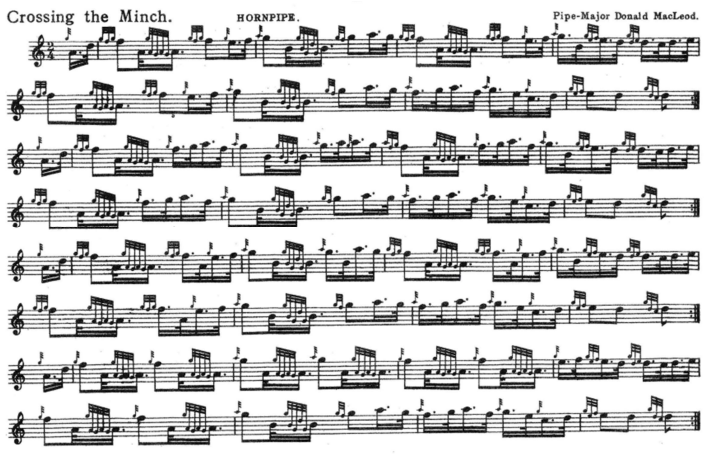
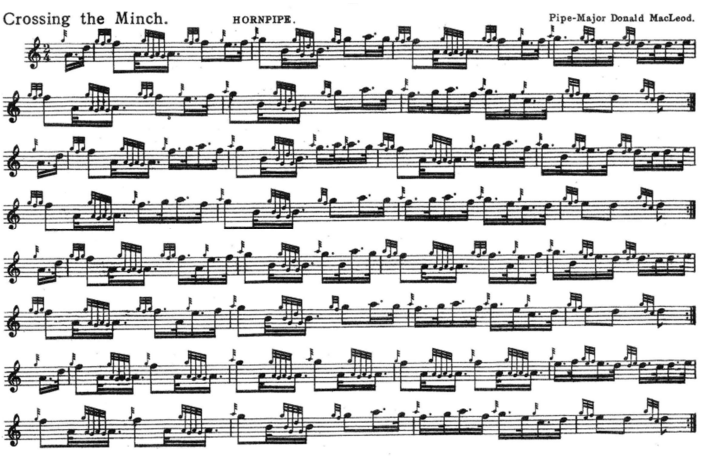
Add files via upload

diff --git a/crossingminch.html b/crossingminch.html
@@ -22,10 +22,10 @@ w\:* {behavior:url(#default#VML);}
  <o:DocumentProperties>
   <o:Author>Graeme Bolton</o:Author>
   <o:LastAuthor>Graeme Bolton</o:LastAuthor>
-  <o:Revision>2</o:Revision>
-  <o:TotalTime>234</o:TotalTime>
-  <o:Created>2023-12-16T03:00:00Z</o:Created>
-  <o:LastSaved>2023-12-16T03:00:00Z</o:LastSaved>
+  <o:Revision>25</o:Revision>
+  <o:TotalTime>248</o:TotalTime>
+  <o:Created>2023-12-16T03:56:00Z</o:Created>
+  <o:LastSaved>2023-12-21T03:55:00Z</o:LastSaved>
   <o:Pages>1</o:Pages>
   <o:Words>54</o:Words>
   <o:Characters>310</o:Characters>
@@ -1028,7 +1028,7 @@ word-wrap:break-word'>
 </table>
 
 <p class=MsoNormal style='margin-bottom:0cm;line-height:normal'><!--[if gte vml 1]><v:rect
- id="Rectangle_x0020_1626538258" o:spid="_x0000_s1027" style='position:absolute;
+ id="Rectangle_x0020_1970786854" o:spid="_x0000_s1027" style='position:absolute;
  margin-left:-31.7pt;margin-top:-29.25pt;width:1346.4pt;height:793pt;z-index:-251658752;
  visibility:visible;mso-wrap-style:square;mso-width-percent:0;
  mso-height-percent:0;mso-wrap-distance-left:9pt;mso-wrap-distance-top:0;
@@ -1077,40 +1077,9 @@ ADoFAAAAAA==
 
 <p class=MsoNormal style='margin-bottom:0cm;line-height:normal'><o:p>&nbsp;</o:p></p>
 
-<p class=MsoNormal style='margin-bottom:12.0pt'><!--[if gte vml 1]><v:shapetype
- id="_x0000_t75" coordsize="21600,21600" o:spt="75" o:preferrelative="t"
- path="m@4@5l@4@11@9@11@9@5xe" filled="f" stroked="f">
- <v:stroke joinstyle="miter"/>
- <v:formulas>
-  <v:f eqn="if lineDrawn pixelLineWidth 0"/>
-  <v:f eqn="sum @0 1 0"/>
-  <v:f eqn="sum 0 0 @1"/>
-  <v:f eqn="prod @2 1 2"/>
-  <v:f eqn="prod @3 21600 pixelWidth"/>
-  <v:f eqn="prod @3 21600 pixelHeight"/>
-  <v:f eqn="sum @0 0 1"/>
-  <v:f eqn="prod @6 1 2"/>
-  <v:f eqn="prod @7 21600 pixelWidth"/>
-  <v:f eqn="sum @8 21600 0"/>
-  <v:f eqn="prod @7 21600 pixelHeight"/>
-  <v:f eqn="sum @10 21600 0"/>
- </v:formulas>
- <v:path o:extrusionok="f" gradientshapeok="t" o:connecttype="rect"/>
- <o:lock v:ext="edit" aspectratio="t"/>
-</v:shapetype><v:shape id="Picture_x0020_1" o:spid="_x0000_s1026" type="#_x0000_t75"
- style='position:absolute;margin-left:293pt;margin-top:15pt;width:531.05pt;
- height:341.25pt;z-index:251661824;visibility:visible;mso-wrap-style:square;
- mso-width-percent:0;mso-height-percent:0;mso-wrap-distance-left:9pt;
- mso-wrap-distance-top:0;mso-wrap-distance-right:9pt;
- mso-wrap-distance-bottom:0;mso-position-horizontal:absolute;
- mso-position-horizontal-relative:text;mso-position-vertical:absolute;
- mso-position-vertical-relative:text;mso-width-percent:0;mso-height-percent:0;
- mso-width-relative:page;mso-height-relative:page'>
- <v:imagedata src="crossingminch_files/image002.png" o:title=""/>
-</v:shape><![endif]--><![if !vml]><span style='mso-ignore:vglayout;position:
-absolute;z-index:251661824;margin-left:391px;margin-top:20px;width:708px;
-height:455px'><img width=708 height=455 src="crossingminch_files/image002.png"
-v:shapes="Picture_x0020_1"></span><![endif]><b><span style='font-size:16.0pt;
+<p class=MsoNormal style='margin-bottom:0cm;line-height:normal'><o:p>&nbsp;</o:p></p>
+
+<p class=MsoNormal style='margin-bottom:12.0pt'><b><span style='font-size:16.0pt;
 line-height:105%;font-family:"Bell MT",serif;color:red;mso-no-proof:yes'>Crossing
 the Minch</span></b><span class=MsoHyperlink><b><span style='font-size:16.0pt;
 line-height:105%;font-family:"Bell MT",serif;color:red;text-decoration:none;
@@ -1141,18 +1110,40 @@ center;mso-style-textoutline-outlinestyle-compound:simple;mso-effects-glow-color
 mso-effects-glow-rad:3.0pt'>Play Tune</span></b><span style='font-size:16.0pt;
 line-height:105%;color:red'><o:p></o:p></span></p>
 
-<p class=MsoNormal style='text-indent:36.0pt'><span class=MsoHyperlink><span
-style='color:#4472C4;mso-themecolor:accent1;letter-spacing:.5pt;mso-style-textoutline-type:
-solid;mso-style-textoutline-fill-color:#4472C4;mso-style-textoutline-fill-themecolor:
-accent1;mso-style-textoutline-fill-alpha:100.0%;mso-style-textoutline-outlinestyle-dpiwidth:
-.75pt;mso-style-textoutline-outlinestyle-linecap:flat;mso-style-textoutline-outlinestyle-join:
-round;mso-style-textoutline-outlinestyle-pctmiterlimit:0%;mso-style-textoutline-outlinestyle-dash:
-solid;mso-style-textoutline-outlinestyle-align:center;mso-style-textoutline-outlinestyle-compound:
-simple;mso-effects-glow-color:#4472C4;mso-effects-glow-themecolor:accent1;
-mso-effects-glow-alpha:40.0%;mso-effects-glow-rad:3.0pt;mso-bidi-font-weight:
-bold'><o:p><span style='text-decoration:none'>&nbsp;</span></o:p></span></span></p>
-
-<p class=MsoNormal><o:p>&nbsp;</o:p></p>
+<p class=MsoNormal><!--[if gte vml 1]><v:shapetype id="_x0000_t75" coordsize="21600,21600"
+ o:spt="75" o:preferrelative="t" path="m@4@5l@4@11@9@11@9@5xe" filled="f"
+ stroked="f">
+ <v:stroke joinstyle="miter"/>
+ <v:formulas>
+  <v:f eqn="if lineDrawn pixelLineWidth 0"/>
+  <v:f eqn="sum @0 1 0"/>
+  <v:f eqn="sum 0 0 @1"/>
+  <v:f eqn="prod @2 1 2"/>
+  <v:f eqn="prod @3 21600 pixelWidth"/>
+  <v:f eqn="prod @3 21600 pixelHeight"/>
+  <v:f eqn="sum @0 0 1"/>
+  <v:f eqn="prod @6 1 2"/>
+  <v:f eqn="prod @7 21600 pixelWidth"/>
+  <v:f eqn="sum @8 21600 0"/>
+  <v:f eqn="prod @7 21600 pixelHeight"/>
+  <v:f eqn="sum @10 21600 0"/>
+ </v:formulas>
+ <v:path o:extrusionok="f" gradientshapeok="t" o:connecttype="rect"/>
+ <o:lock v:ext="edit" aspectratio="t"/>
+</v:shapetype><v:shape id="Picture_x0020_1" o:spid="_x0000_s1026" type="#_x0000_t75"
+ style='position:absolute;margin-left:32.5pt;margin-top:87.2pt;width:531.05pt;
+ height:344.3pt;z-index:-251652608;visibility:visible;mso-wrap-style:square;
+ mso-width-percent:0;mso-height-percent:0;mso-wrap-distance-left:9pt;
+ mso-wrap-distance-top:0;mso-wrap-distance-right:9pt;
+ mso-wrap-distance-bottom:0;mso-position-horizontal:absolute;
+ mso-position-horizontal-relative:text;mso-position-vertical:absolute;
+ mso-position-vertical-relative:text;mso-width-percent:0;mso-height-percent:0;
+ mso-width-relative:page;mso-height-relative:page'>
+ <v:imagedata src="crossingminch_files/image002.png" o:title=""/>
+</v:shape><![endif]--><![if !vml]><span style='mso-ignore:vglayout;position:
+absolute;z-index:-1895819776;margin-left:43px;margin-top:116px;width:708px;
+height:459px'><img width=708 height=459 src="crossingminch_files/image002.png"
+v:shapes="Picture_x0020_1"></span><![endif]></p>
 
 </div>
 
